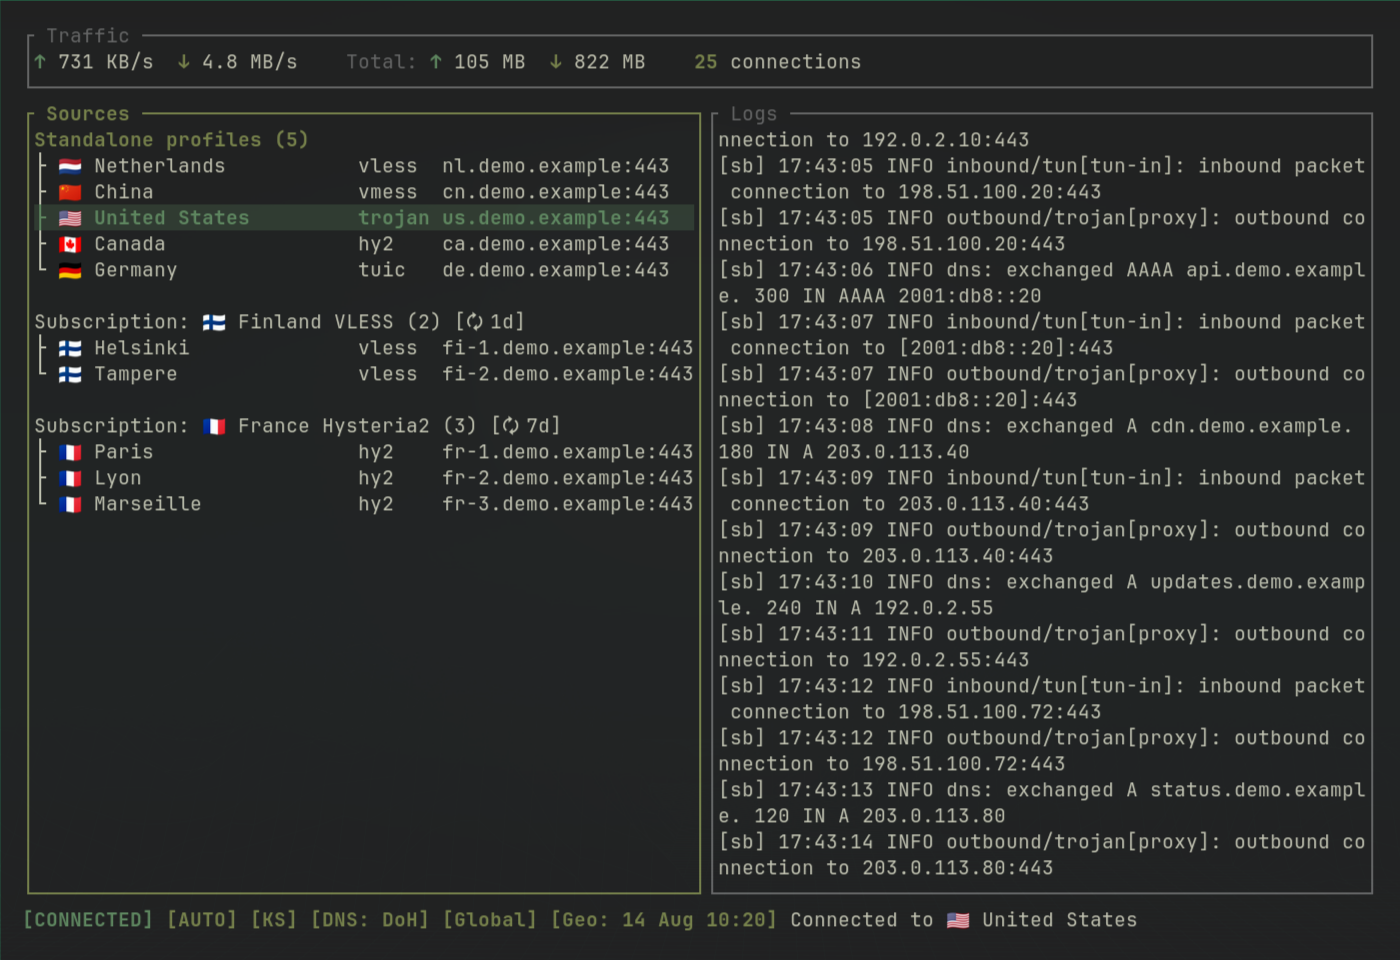
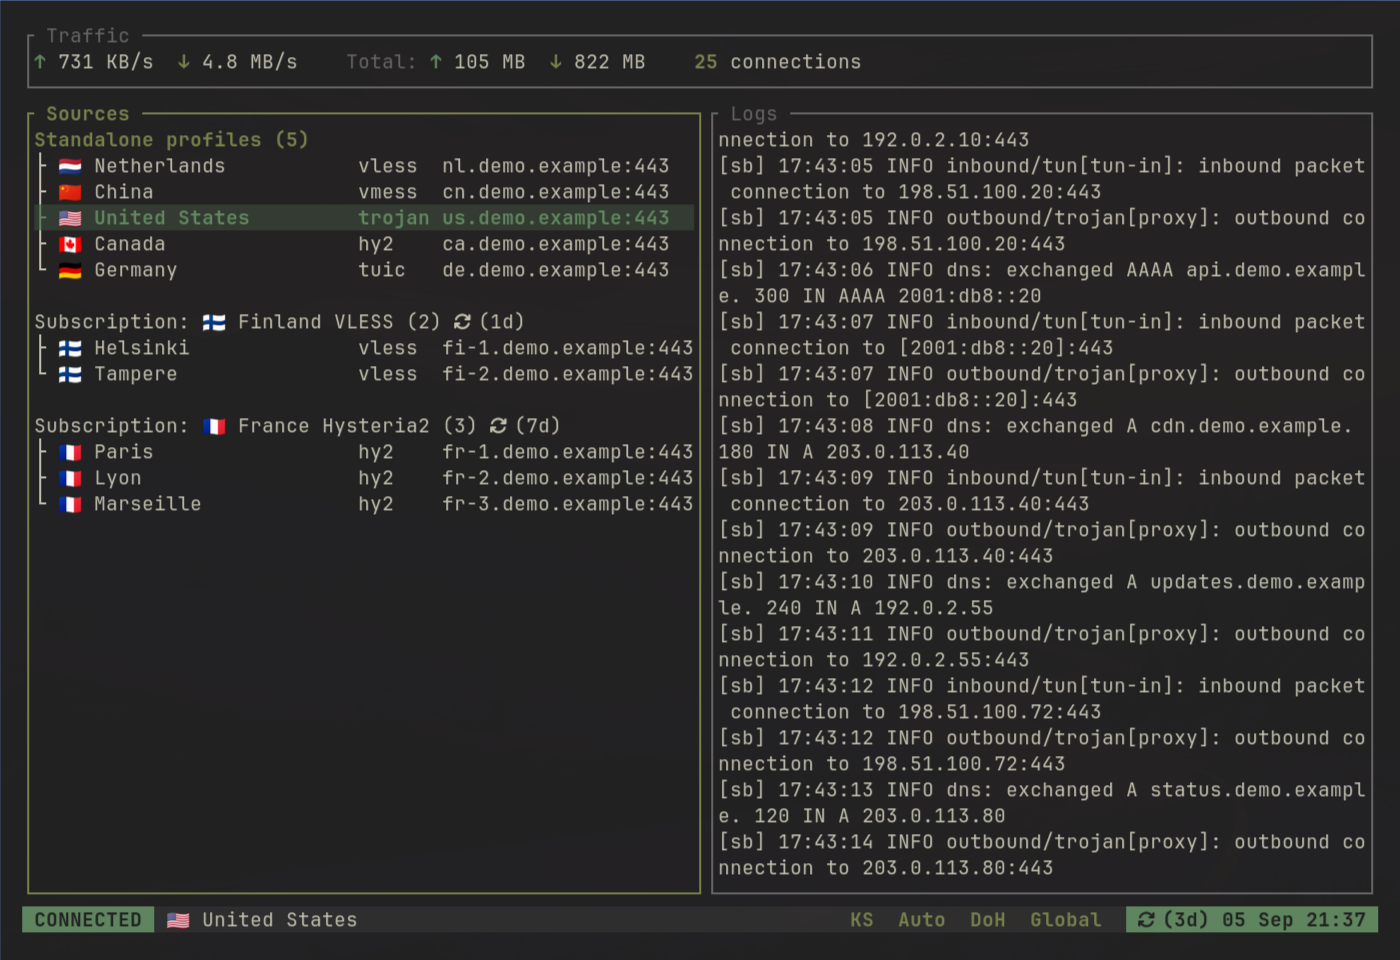
docs: refresh screenshots for redesigned status bar

Changed region(s): [[0.0, 0.9375, 0.9829, 0.9688], [0.3379, 0.4375, 0.3686, 0.4688], [0.3071, 0.3125, 0.3379, 0.3438]]

diff --git a/src/tui_client.rs b/src/tui_client.rs
@@ -224,10 +224,9 @@ fn reset_terminal_colors() {
 /// Render a fixed, side-effect-free application state for documentation captures.
 pub fn run_docs_preview(theme_slug: &str) -> Result<()> {
     use crate::config::profile::{
-        Config, GeoRegion, Hysteria2Config, ProtocolConfig, RoutingMode, Subscription,
-        SubscriptionAutoUpdate, TrojanConfig, TuicConfig, VlessConfig, VmessConfig,
+        Config, GeoAutoUpdate, GeoRegion, Hysteria2Config, ProtocolConfig, RoutingMode,
+        Subscription, SubscriptionAutoUpdate, TrojanConfig, TuicConfig, VlessConfig, VmessConfig,
     };
-    use chrono::TimeZone;
     use crossterm::event::{self, Event, KeyCode, KeyModifiers};
     use uuid::Uuid;
 
@@ -372,6 +371,7 @@ pub fn run_docs_preview(theme_slug: &str) -> Result<()> {
     config.settings.kill_switch = true;
     config.settings.geo_routing.set_region(GeoRegion::Ru);
     config.settings.geo_routing.set_mode(RoutingMode::Global);
+    config.settings.geo_routing.auto_update = GeoAutoUpdate::Every3d;
 
     let mut model = Model::in_memory(config);
     model.theme = crate::ui::styles::Theme::from_palette(palette);
@@ -380,9 +380,7 @@ pub fn run_docs_preview(theme_slug: &str) -> Result<()> {
     model.selected = 2;
     model.main_pane_focus = crate::app::model::MainPaneFocus::Sources;
     model.status = AppStatus::Info("Connected to 🇺🇸 United States".into());
-    model.geo_last_checked_at = chrono::Local
-        .with_ymd_and_hms(2026, 8, 14, 10, 20, 0)
-        .single();
+    model.geo_last_checked_at = Some(chrono::Local::now());
     model.traffic = TrafficStats {
         up_rate_bps: 731 * 1024,
         down_rate_bps: 5_033_165,
